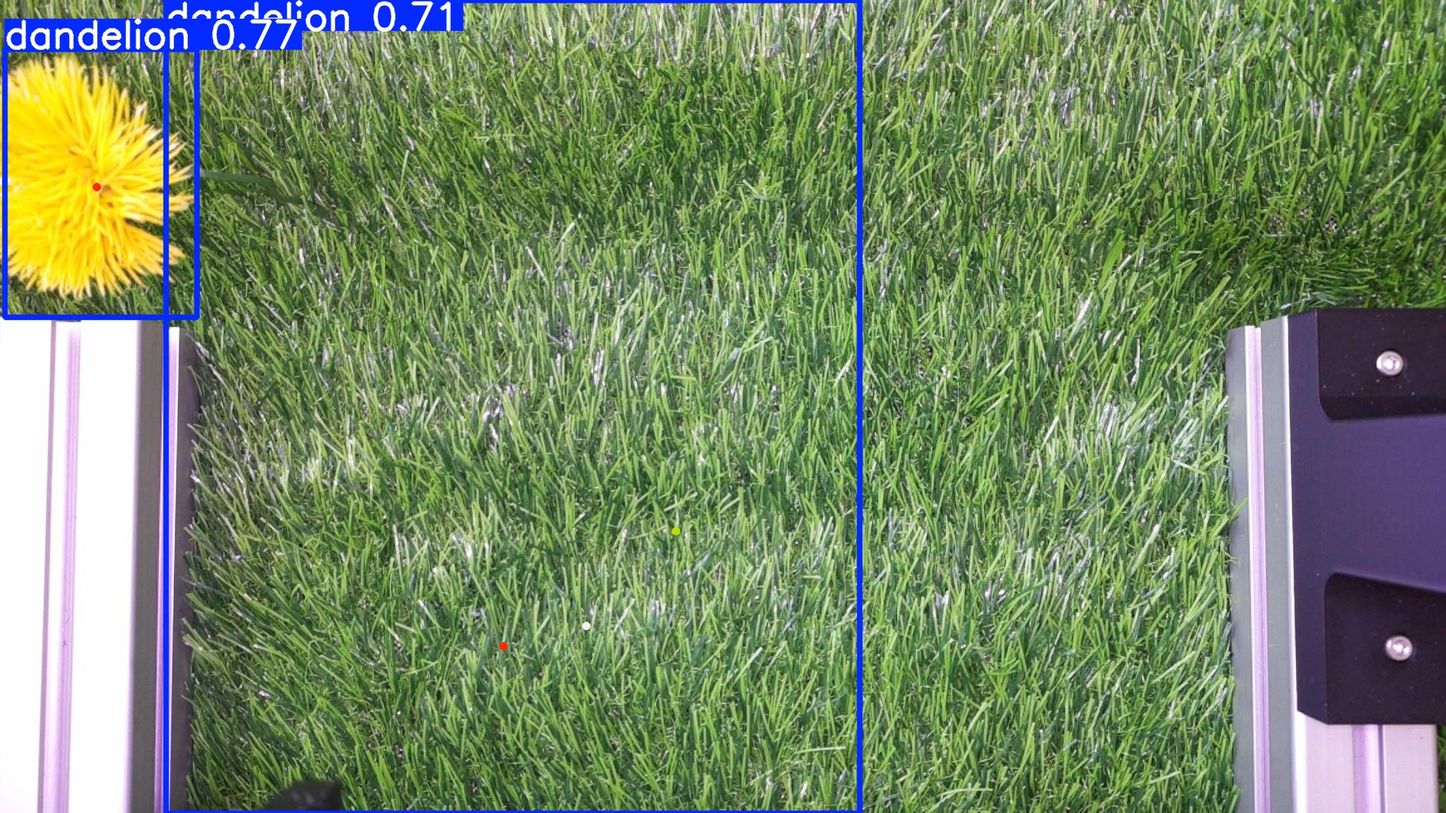
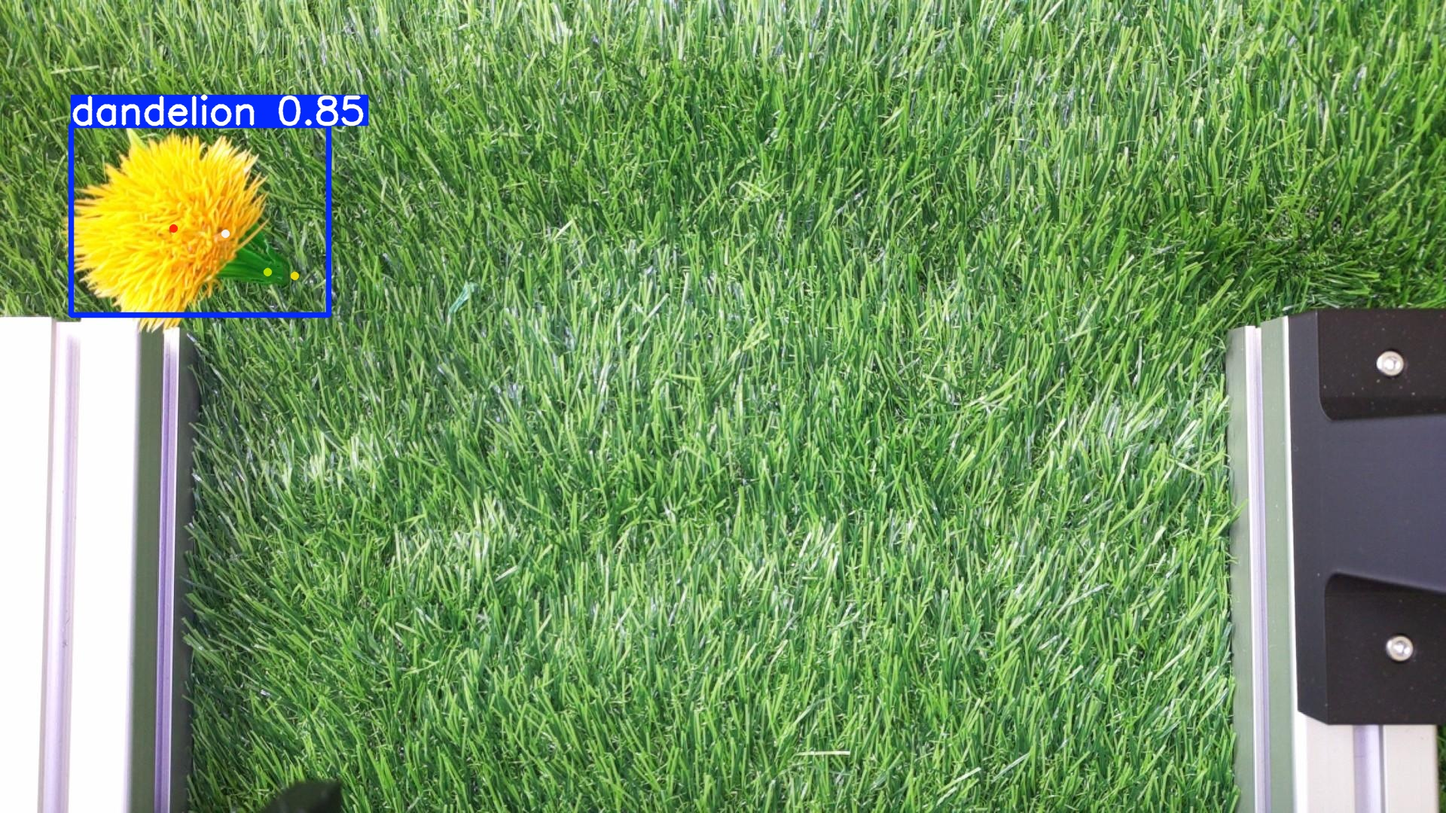
re-did test2

diff --git a/src/inference/inference/model_eval.py b/src/inference/inference/model_eval.py
@@ -11,8 +11,8 @@ url = "http://10.0.0.171:8000"
 neo = Pi5Neo('/dev/spidev0.0', 16, 800)
 a = 1.0
 
-actual_base = (1219, 976)
-test_name = "test1"
+actual_base = (368, 365)
+test_name = "test2"
 
 models = {
     "indoor_pose": "/mnt/shared/weedy_ros/src/inference/inference/models/indoor_pose_ncnn_model",
@@ -73,9 +73,9 @@ def main():
                 results_data[model_name]["confidences"].append(0)
             else:
                 # Filter by box confidence
-                confidence_threshold = 0.6
-                result.keypoints = result.keypoints[result.boxes.conf >= confidence_threshold]
-                result.boxes = result.boxes[result.boxes.conf >= confidence_threshold]
+                # confidence_threshold = 0.6
+                # result.keypoints = result.keypoints[result.boxes.conf >= confidence_threshold]
+                # result.boxes = result.boxes[result.boxes.conf >= confidence_threshold]
 
                 # Save image
                 result.save(f"/mnt/shared/weedy_ros/src/inference/inference/eval/{test_name}/{model_name}_{iter}.jpg")
